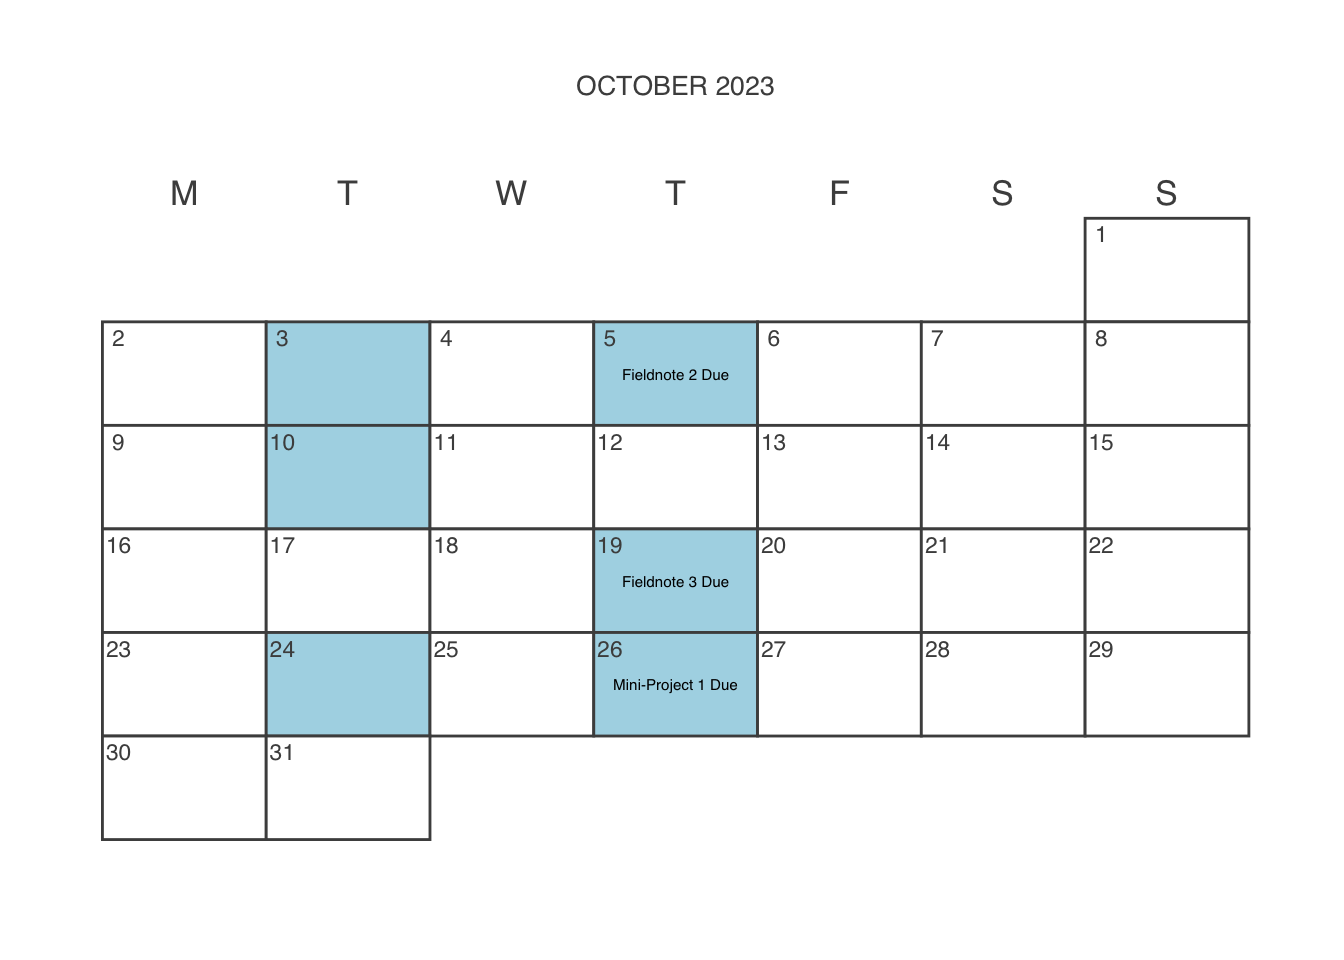
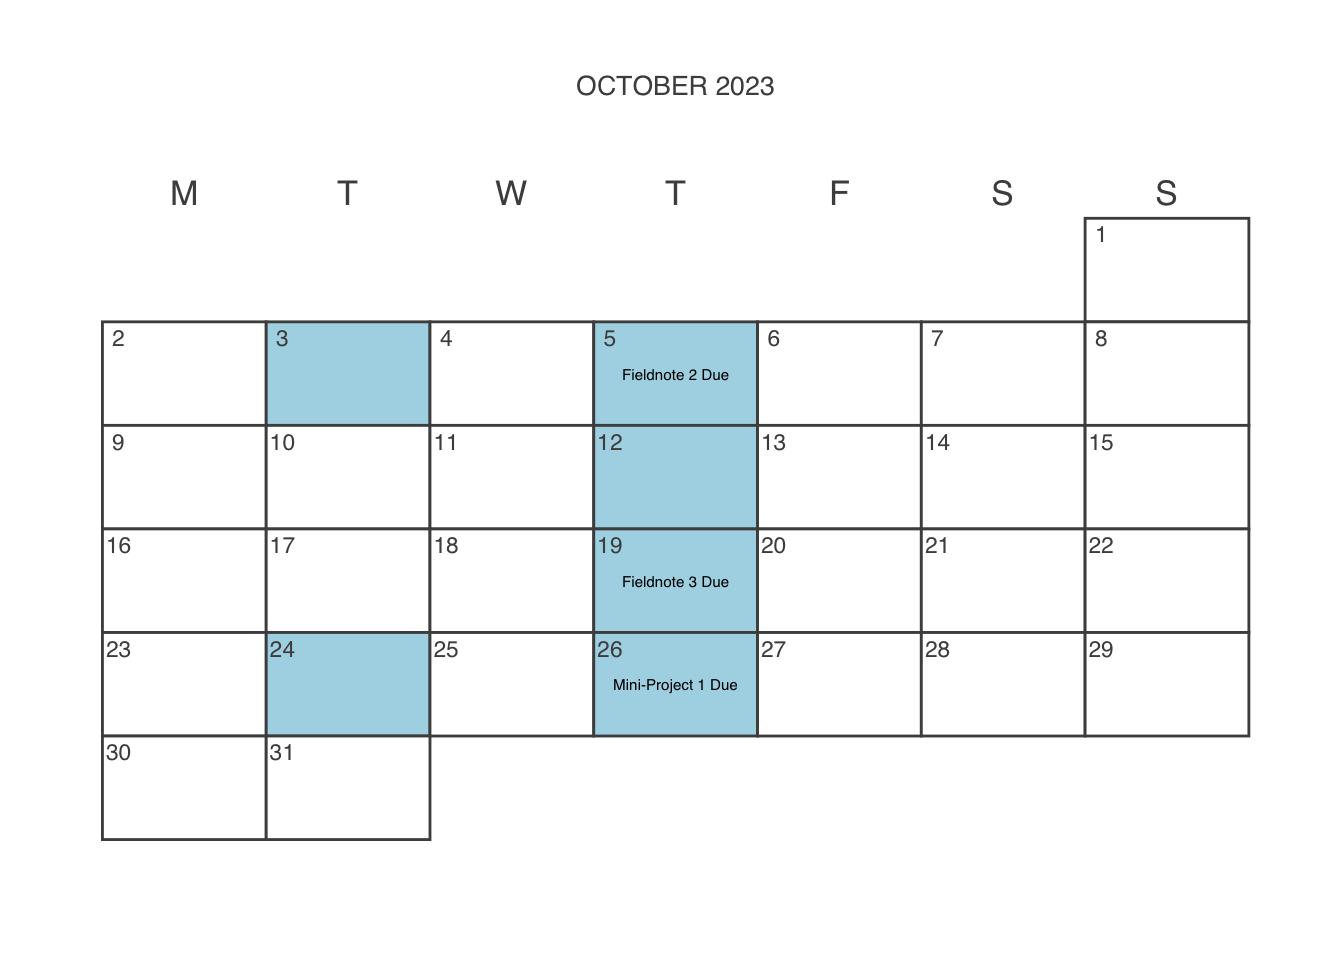
added labor log; fixed times/office hour locations

Changed region(s): [[0.1875, 0.4375, 0.3438, 0.5625], [0.4375, 0.4375, 0.5625, 0.5625]]

diff --git a/docs/schedule.html b/docs/schedule.html
@@ -151,11 +151,11 @@ ul.task-list li input[type="checkbox"] {
   </ul></li>
   <li><a href="#october-10-2023" id="toc-october-10-2023" class="nav-link" data-scroll-target="#october-10-2023">October 10, 2023</a>
   <ul class="collapse">
-  <li><a href="#sorting-things-out-cultural-analyses-of-categories" id="toc-sorting-things-out-cultural-analyses-of-categories" class="nav-link" data-scroll-target="#sorting-things-out-cultural-analyses-of-categories">Sorting Things Out: Cultural Analyses of Categories</a></li>
+  <li><a href="#autumn-recess" id="toc-autumn-recess" class="nav-link" data-scroll-target="#autumn-recess">Autumn Recess</a></li>
   </ul></li>
   <li><a href="#october-12-2023" id="toc-october-12-2023" class="nav-link" data-scroll-target="#october-12-2023">October 12, 2023</a>
   <ul class="collapse">
-  <li><a href="#autumn-recess" id="toc-autumn-recess" class="nav-link" data-scroll-target="#autumn-recess">Autumn Recess</a></li>
+  <li><a href="#sorting-things-out-cultural-analyses-of-categories" id="toc-sorting-things-out-cultural-analyses-of-categories" class="nav-link" data-scroll-target="#sorting-things-out-cultural-analyses-of-categories">Sorting Things Out: Cultural Analyses of Categories</a></li>
   </ul></li>
   <li><a href="#october-17-2023" id="toc-october-17-2023" class="nav-link" data-scroll-target="#october-17-2023">October 17, 2023</a>
   <ul class="collapse">
@@ -338,7 +338,8 @@ Calendar View for Major Assignments
 <div id="tabset-2-1" class="tab-pane active" role="tabpanel" aria-labelledby="tabset-2-1-tab">
 <p><svg aria-hidden="true" role="img" viewbox="0 0 448 512" style="height:1em;width:0.88em;vertical-align:-0.125em;margin-left:auto;margin-right:auto;font-size:inherit;fill:currentColor;overflow:visible;position:relative;"><path d="M96 0C43 0 0 43 0 96V416c0 53 43 96 96 96H384h32c17.7 0 32-14.3 32-32s-14.3-32-32-32V384c17.7 0 32-14.3 32-32V32c0-17.7-14.3-32-32-32H384 96zm0 384H352v64H96c-17.7 0-32-14.3-32-32s14.3-32 32-32zm32-240c0-8.8 7.2-16 16-16H336c8.8 0 16 7.2 16 16s-7.2 16-16 16H144c-8.8 0-16-7.2-16-16zm16 48H336c8.8 0 16 7.2 16 16s-7.2 16-16 16H144c-8.8 0-16-7.2-16-16s7.2-16 16-16z"></path></svg> boyd, danah and Kate Crawford (2012). “Critical Questions for Big Data”. In: <em>Information, Communication &amp; Society</em> 15.5, pp.&nbsp;662-679. (Visited on Jan.&nbsp;19, 2018).</p>
 <p><svg aria-hidden="true" role="img" viewbox="0 0 384 512" style="height:1em;width:0.75em;vertical-align:-0.125em;margin-left:auto;margin-right:auto;font-size:inherit;fill:currentColor;overflow:visible;position:relative;"><path d="M64 464c-8.8 0-16-7.2-16-16V64c0-8.8 7.2-16 16-16H224v80c0 17.7 14.3 32 32 32h80V448c0 8.8-7.2 16-16 16H64zM64 0C28.7 0 0 28.7 0 64V448c0 35.3 28.7 64 64 64H320c35.3 0 64-28.7 64-64V154.5c0-17-6.7-33.3-18.7-45.3L274.7 18.7C262.7 6.7 246.5 0 229.5 0H64zm56 256c-13.3 0-24 10.7-24 24s10.7 24 24 24H264c13.3 0 24-10.7 24-24s-10.7-24-24-24H120zm0 96c-13.3 0-24 10.7-24 24s10.7 24 24 24H264c13.3 0 24-10.7 24-24s-10.7-24-24-24H120z"></path></svg> Fill out the Trigger Warnings <a href="https://moodle.smith.edu/mod/questionnaire/view.php?id=1060016">Questionnaire</a> in Moodle.<br>
-<svg aria-hidden="true" role="img" viewbox="0 0 384 512" style="height:1em;width:0.75em;vertical-align:-0.125em;margin-left:auto;margin-right:auto;font-size:inherit;fill:currentColor;overflow:visible;position:relative;"><path d="M64 464c-8.8 0-16-7.2-16-16V64c0-8.8 7.2-16 16-16H224v80c0 17.7 14.3 32 32 32h80V448c0 8.8-7.2 16-16 16H64zM64 0C28.7 0 0 28.7 0 64V448c0 35.3 28.7 64 64 64H320c35.3 0 64-28.7 64-64V154.5c0-17-6.7-33.3-18.7-45.3L274.7 18.7C262.7 6.7 246.5 0 229.5 0H64zm56 256c-13.3 0-24 10.7-24 24s10.7 24 24 24H264c13.3 0 24-10.7 24-24s-10.7-24-24-24H120zm0 96c-13.3 0-24 10.7-24 24s10.7 24 24 24H264c13.3 0 24-10.7 24-24s-10.7-24-24-24H120z"></path></svg> Install Desktop version of Slack and configure notifications for our course.</p>
+<svg aria-hidden="true" role="img" viewbox="0 0 384 512" style="height:1em;width:0.75em;vertical-align:-0.125em;margin-left:auto;margin-right:auto;font-size:inherit;fill:currentColor;overflow:visible;position:relative;"><path d="M64 464c-8.8 0-16-7.2-16-16V64c0-8.8 7.2-16 16-16H224v80c0 17.7 14.3 32 32 32h80V448c0 8.8-7.2 16-16 16H64zM64 0C28.7 0 0 28.7 0 64V448c0 35.3 28.7 64 64 64H320c35.3 0 64-28.7 64-64V154.5c0-17-6.7-33.3-18.7-45.3L274.7 18.7C262.7 6.7 246.5 0 229.5 0H64zm56 256c-13.3 0-24 10.7-24 24s10.7 24 24 24H264c13.3 0 24-10.7 24-24s-10.7-24-24-24H120zm0 96c-13.3 0-24 10.7-24 24s10.7 24 24 24H264c13.3 0 24-10.7 24-24s-10.7-24-24-24H120z"></path></svg> Install Desktop version of Slack and configure notifications for our course.<br>
+<svg aria-hidden="true" role="img" viewbox="0 0 384 512" style="height:1em;width:0.75em;vertical-align:-0.125em;margin-left:auto;margin-right:auto;font-size:inherit;fill:currentColor;overflow:visible;position:relative;"><path d="M64 464c-8.8 0-16-7.2-16-16V64c0-8.8 7.2-16 16-16H224v80c0 17.7 14.3 32 32 32h80V448c0 8.8-7.2 16-16 16H64zM64 0C28.7 0 0 28.7 0 64V448c0 35.3 28.7 64 64 64H320c35.3 0 64-28.7 64-64V154.5c0-17-6.7-33.3-18.7-45.3L274.7 18.7C262.7 6.7 246.5 0 229.5 0H64zm56 256c-13.3 0-24 10.7-24 24s10.7 24 24 24H264c13.3 0 24-10.7 24-24s-10.7-24-24-24H120zm0 96c-13.3 0-24 10.7-24 24s10.7 24 24 24H264c13.3 0 24-10.7 24-24s-10.7-24-24-24H120z"></path></svg> Create and share <a href="https://docs.google.com/spreadsheets/d/187FGeX9ByXa4-1hnqFFY5H-j4Aq8bAwbLjnVyJnGGyc/copy">Labor Log</a></p>
 </div>
 <div id="tabset-2-2" class="tab-pane" role="tabpanel" aria-labelledby="tabset-2-2-tab">
 <p><svg aria-hidden="true" role="img" viewbox="0 0 576 512" style="height:1em;width:1.12em;vertical-align:-0.125em;margin-left:auto;margin-right:auto;font-size:inherit;fill:currentColor;overflow:visible;position:relative;"><path d="M160 80H512c8.8 0 16 7.2 16 16V320c0 8.8-7.2 16-16 16H490.8L388.1 178.9c-4.4-6.8-12-10.9-20.1-10.9s-15.7 4.1-20.1 10.9l-52.2 79.8-12.4-16.9c-4.5-6.2-11.7-9.8-19.4-9.8s-14.8 3.6-19.4 9.8L175.6 336H160c-8.8 0-16-7.2-16-16V96c0-8.8 7.2-16 16-16zM96 96V320c0 35.3 28.7 64 64 64H512c35.3 0 64-28.7 64-64V96c0-35.3-28.7-64-64-64H160c-35.3 0-64 28.7-64 64zM48 120c0-13.3-10.7-24-24-24S0 106.7 0 120V344c0 75.1 60.9 136 136 136H456c13.3 0 24-10.7 24-24s-10.7-24-24-24H136c-48.6 0-88-39.4-88-88V120zm208 24a32 32 0 1 0 -64 0 32 32 0 1 0 64 0z"></path></svg> Course slides are <a href="slides/Day2-Epstemologies.html">here</a></p>
@@ -523,22 +524,19 @@ Calendar View for Major Assignments
 </section>
 <section id="october-10-2023" class="level2">
 <h2 class="anchored" data-anchor-id="october-10-2023">October 10, 2023</h2>
-<section id="sorting-things-out-cultural-analyses-of-categories" class="level3">
-<h3 class="anchored" data-anchor-id="sorting-things-out-cultural-analyses-of-categories">Sorting Things Out: Cultural Analyses of Categories</h3>
+<section id="autumn-recess" class="level3">
+<h3 class="anchored" data-anchor-id="autumn-recess">Autumn Recess</h3>
 <p><button class="btn btn-success btn-sm">CULTURAL ANALYSIS OF INFRASTRUCTURE</button> <button class="btn btn-primary btn-sm">INTERPRETING CULTURAL MEANING</button> <button class="btn btn-warning btn-sm">INFRASTRUCTURES</button></p>
 <div class="panel-tabset">
 <ul class="nav nav-tabs" role="tablist"><li class="nav-item" role="presentation"><a class="nav-link active" id="tabset-11-1-tab" data-bs-toggle="tab" data-bs-target="#tabset-11-1" role="tab" aria-controls="tabset-11-1" aria-selected="true">Due Today</a></li><li class="nav-item" role="presentation"><a class="nav-link" id="tabset-11-2-tab" data-bs-toggle="tab" data-bs-target="#tabset-11-2" role="tab" aria-controls="tabset-11-2" aria-selected="false">Further Resources</a></li></ul>
 <div class="tab-content">
 <div id="tabset-11-1" class="tab-pane active" role="tabpanel" aria-labelledby="tabset-11-1-tab">
-<p><svg aria-hidden="true" role="img" viewbox="0 0 448 512" style="height:1em;width:0.88em;vertical-align:-0.125em;margin-left:auto;margin-right:auto;font-size:inherit;fill:currentColor;overflow:visible;position:relative;"><path d="M96 0C43 0 0 43 0 96V416c0 53 43 96 96 96H384h32c17.7 0 32-14.3 32-32s-14.3-32-32-32V384c17.7 0 32-14.3 32-32V32c0-17.7-14.3-32-32-32H384 96zm0 384H352v64H96c-17.7 0-32-14.3-32-32s14.3-32 32-32zm32-240c0-8.8 7.2-16 16-16H336c8.8 0 16 7.2 16 16s-7.2 16-16 16H144c-8.8 0-16-7.2-16-16zm16 48H336c8.8 0 16 7.2 16 16s-7.2 16-16 16H144c-8.8 0-16-7.2-16-16s7.2-16 16-16z"></path></svg> Bowker, Geoffrey C. (1998). “The Kindness of Strangers: Kinds and Politics in Classification Systems”. En. In: <em>Library Trends</em> 47.2, pp.&nbsp;255-292. (Visited on Oct.&nbsp;14, 2019).</p>
 <p><svg aria-hidden="true" role="img" viewbox="0 0 640 512" style="height:1em;width:1.25em;vertical-align:-0.125em;margin-left:auto;margin-right:auto;font-size:inherit;fill:currentColor;overflow:visible;position:relative;"><path d="M96 128a128 128 0 1 1 256 0A128 128 0 1 1 96 128zM0 482.3C0 383.8 79.8 304 178.3 304h91.4C368.2 304 448 383.8 448 482.3c0 16.4-13.3 29.7-29.7 29.7H29.7C13.3 512 0 498.7 0 482.3zM609.3 512H471.4c5.4-9.4 8.6-20.3 8.6-32v-8c0-60.7-27.1-115.2-69.8-151.8c2.4-.1 4.7-.2 7.1-.2h61.4C567.8 320 640 392.2 640 481.3c0 17-13.8 30.7-30.7 30.7zM432 256c-31 0-59-12.6-79.3-32.9C372.4 196.5 384 163.6 384 128c0-26.8-6.6-52.1-18.3-74.3C384.3 40.1 407.2 32 432 32c61.9 0 112 50.1 112 112s-50.1 112-112 112z"></path></svg> Work on semiotic analysis</p>
 <p><svg aria-hidden="true" role="img" viewbox="0 0 384 512" style="height:1em;width:0.75em;vertical-align:-0.125em;margin-left:auto;margin-right:auto;font-size:inherit;fill:currentColor;overflow:visible;position:relative;"><path d="M64 464c-8.8 0-16-7.2-16-16V64c0-8.8 7.2-16 16-16H224v80c0 17.7 14.3 32 32 32h80V448c0 8.8-7.2 16-16 16H64zM64 0C28.7 0 0 28.7 0 64V448c0 35.3 28.7 64 64 64H320c35.3 0 64-28.7 64-64V154.5c0-17-6.7-33.3-18.7-45.3L274.7 18.7C262.7 6.7 246.5 0 229.5 0H64zm56 256c-13.3 0-24 10.7-24 24s10.7 24 24 24H264c13.3 0 24-10.7 24-24s-10.7-24-24-24H120zm0 96c-13.3 0-24 10.7-24 24s10.7 24 24 24H264c13.3 0 24-10.7 24-24s-10.7-24-24-24H120z"></path></svg> Start working on Mini-Project 1<br>
 <svg aria-hidden="true" role="img" viewbox="0 0 384 512" style="height:1em;width:0.75em;vertical-align:-0.125em;margin-left:auto;margin-right:auto;font-size:inherit;fill:currentColor;overflow:visible;position:relative;"><path d="M64 464c-8.8 0-16-7.2-16-16V64c0-8.8 7.2-16 16-16H224v80c0 17.7 14.3 32 32 32h80V448c0 8.8-7.2 16-16 16H64zM64 0C28.7 0 0 28.7 0 64V448c0 35.3 28.7 64 64 64H320c35.3 0 64-28.7 64-64V154.5c0-17-6.7-33.3-18.7-45.3L274.7 18.7C262.7 6.7 246.5 0 229.5 0H64zm56 256c-13.3 0-24 10.7-24 24s10.7 24 24 24H264c13.3 0 24-10.7 24-24s-10.7-24-24-24H120zm0 96c-13.3 0-24 10.7-24 24s10.7 24 24 24H264c13.3 0 24-10.7 24-24s-10.7-24-24-24H120z"></path></svg> Be sure to get approval for the TED Talks you plan to view for Mini-Project 1.</p>
 </div>
 <div id="tabset-11-2" class="tab-pane" role="tabpanel" aria-labelledby="tabset-11-2-tab">
-<p><svg aria-hidden="true" role="img" viewbox="0 0 448 512" style="height:1em;width:0.88em;vertical-align:-0.125em;margin-left:auto;margin-right:auto;font-size:inherit;fill:currentColor;overflow:visible;position:relative;"><path d="M96 0C43 0 0 43 0 96V416c0 53 43 96 96 96H384h32c17.7 0 32-14.3 32-32s-14.3-32-32-32V384c17.7 0 32-14.3 32-32V32c0-17.7-14.3-32-32-32H384 96zm0 384H352v64H96c-17.7 0-32-14.3-32-32s14.3-32 32-32zm32-240c0-8.8 7.2-16 16-16H336c8.8 0 16 7.2 16 16s-7.2 16-16 16H144c-8.8 0-16-7.2-16-16zm16 48H336c8.8 0 16 7.2 16 16s-7.2 16-16 16H144c-8.8 0-16-7.2-16-16s7.2-16 16-16z"></path></svg> Bowker, Geoffrey C. and Susan Leigh Star (1999). <em>Sorting Things Out: Classification and Its Consequences</em>. En. Cambridge, MA: MIT Press. ISBN: 978-0-262-52295-3.<br>
-<svg aria-hidden="true" role="img" viewbox="0 0 448 512" style="height:1em;width:0.88em;vertical-align:-0.125em;margin-left:auto;margin-right:auto;font-size:inherit;fill:currentColor;overflow:visible;position:relative;"><path d="M96 0C43 0 0 43 0 96V416c0 53 43 96 96 96H384h32c17.7 0 32-14.3 32-32s-14.3-32-32-32V384c17.7 0 32-14.3 32-32V32c0-17.7-14.3-32-32-32H384 96zm0 384H352v64H96c-17.7 0-32-14.3-32-32s14.3-32 32-32zm32-240c0-8.8 7.2-16 16-16H336c8.8 0 16 7.2 16 16s-7.2 16-16 16H144c-8.8 0-16-7.2-16-16zm16 48H336c8.8 0 16 7.2 16 16s-7.2 16-16 16H144c-8.8 0-16-7.2-16-16s7.2-16 16-16z"></path></svg> Waterton, Claire (2002). “From Field to Fantasy: Classifying Nature, Constructing Europe”. En. In: <em>Social Studies of Science</em> 32.2, pp.&nbsp;177-204. (Visited on May. 15, 2019).<br>
-<svg aria-hidden="true" role="img" viewbox="0 0 448 512" style="height:1em;width:0.88em;vertical-align:-0.125em;margin-left:auto;margin-right:auto;font-size:inherit;fill:currentColor;overflow:visible;position:relative;"><path d="M96 0C43 0 0 43 0 96V416c0 53 43 96 96 96H384h32c17.7 0 32-14.3 32-32s-14.3-32-32-32V384c17.7 0 32-14.3 32-32V32c0-17.7-14.3-32-32-32H384 96zm0 384H352v64H96c-17.7 0-32-14.3-32-32s14.3-32 32-32zm32-240c0-8.8 7.2-16 16-16H336c8.8 0 16 7.2 16 16s-7.2 16-16 16H144c-8.8 0-16-7.2-16-16zm16 48H336c8.8 0 16 7.2 16 16s-7.2 16-16 16H144c-8.8 0-16-7.2-16-16s7.2-16 16-16z"></path></svg> Kirksey, Eben (2015). “Species: a praxiographic study”. Fr.&nbsp;In: <em>Journal of the Royal Anthropological Institute</em> 21.4, pp.&nbsp;758-780. (Visited on Oct.&nbsp;05, 2019).</p>
+
 </div>
 </div>
 </div>
@@ -546,18 +544,21 @@ Calendar View for Major Assignments
 </section>
 <section id="october-12-2023" class="level2">
 <h2 class="anchored" data-anchor-id="october-12-2023">October 12, 2023</h2>
-<section id="autumn-recess" class="level3">
-<h3 class="anchored" data-anchor-id="autumn-recess">Autumn Recess</h3>
+<section id="sorting-things-out-cultural-analyses-of-categories" class="level3">
+<h3 class="anchored" data-anchor-id="sorting-things-out-cultural-analyses-of-categories">Sorting Things Out: Cultural Analyses of Categories</h3>
 <div class="panel-tabset">
 <ul class="nav nav-tabs" role="tablist"><li class="nav-item" role="presentation"><a class="nav-link active" id="tabset-12-1-tab" data-bs-toggle="tab" data-bs-target="#tabset-12-1" role="tab" aria-controls="tabset-12-1" aria-selected="true">Due Today</a></li><li class="nav-item" role="presentation"><a class="nav-link" id="tabset-12-2-tab" data-bs-toggle="tab" data-bs-target="#tabset-12-2" role="tab" aria-controls="tabset-12-2" aria-selected="false">Further Resources</a></li></ul>
 <div class="tab-content">
 <div id="tabset-12-1" class="tab-pane active" role="tabpanel" aria-labelledby="tabset-12-1-tab">
+<p><svg aria-hidden="true" role="img" viewbox="0 0 448 512" style="height:1em;width:0.88em;vertical-align:-0.125em;margin-left:auto;margin-right:auto;font-size:inherit;fill:currentColor;overflow:visible;position:relative;"><path d="M96 0C43 0 0 43 0 96V416c0 53 43 96 96 96H384h32c17.7 0 32-14.3 32-32s-14.3-32-32-32V384c17.7 0 32-14.3 32-32V32c0-17.7-14.3-32-32-32H384 96zm0 384H352v64H96c-17.7 0-32-14.3-32-32s14.3-32 32-32zm32-240c0-8.8 7.2-16 16-16H336c8.8 0 16 7.2 16 16s-7.2 16-16 16H144c-8.8 0-16-7.2-16-16zm16 48H336c8.8 0 16 7.2 16 16s-7.2 16-16 16H144c-8.8 0-16-7.2-16-16s7.2-16 16-16z"></path></svg> Bowker, Geoffrey C. (1998). “The Kindness of Strangers: Kinds and Politics in Classification Systems”. En. In: <em>Library Trends</em> 47.2, pp.&nbsp;255-292. (Visited on Oct.&nbsp;14, 2019).</p>
 <p><svg aria-hidden="true" role="img" viewbox="0 0 640 512" style="height:1em;width:1.25em;vertical-align:-0.125em;margin-left:auto;margin-right:auto;font-size:inherit;fill:currentColor;overflow:visible;position:relative;"><path d="M96 128a128 128 0 1 1 256 0A128 128 0 1 1 96 128zM0 482.3C0 383.8 79.8 304 178.3 304h91.4C368.2 304 448 383.8 448 482.3c0 16.4-13.3 29.7-29.7 29.7H29.7C13.3 512 0 498.7 0 482.3zM609.3 512H471.4c5.4-9.4 8.6-20.3 8.6-32v-8c0-60.7-27.1-115.2-69.8-151.8c2.4-.1 4.7-.2 7.1-.2h61.4C567.8 320 640 392.2 640 481.3c0 17-13.8 30.7-30.7 30.7zM432 256c-31 0-59-12.6-79.3-32.9C372.4 196.5 384 163.6 384 128c0-26.8-6.6-52.1-18.3-74.3C384.3 40.1 407.2 32 432 32c61.9 0 112 50.1 112 112s-50.1 112-112 112z"></path></svg> Work on semiotic analysis</p>
 <p><svg aria-hidden="true" role="img" viewbox="0 0 384 512" style="height:1em;width:0.75em;vertical-align:-0.125em;margin-left:auto;margin-right:auto;font-size:inherit;fill:currentColor;overflow:visible;position:relative;"><path d="M64 464c-8.8 0-16-7.2-16-16V64c0-8.8 7.2-16 16-16H224v80c0 17.7 14.3 32 32 32h80V448c0 8.8-7.2 16-16 16H64zM64 0C28.7 0 0 28.7 0 64V448c0 35.3 28.7 64 64 64H320c35.3 0 64-28.7 64-64V154.5c0-17-6.7-33.3-18.7-45.3L274.7 18.7C262.7 6.7 246.5 0 229.5 0H64zm56 256c-13.3 0-24 10.7-24 24s10.7 24 24 24H264c13.3 0 24-10.7 24-24s-10.7-24-24-24H120zm0 96c-13.3 0-24 10.7-24 24s10.7 24 24 24H264c13.3 0 24-10.7 24-24s-10.7-24-24-24H120z"></path></svg> Start working on Fieldnote 3<br>
 <svg aria-hidden="true" role="img" viewbox="0 0 384 512" style="height:1em;width:0.75em;vertical-align:-0.125em;margin-left:auto;margin-right:auto;font-size:inherit;fill:currentColor;overflow:visible;position:relative;"><path d="M64 464c-8.8 0-16-7.2-16-16V64c0-8.8 7.2-16 16-16H224v80c0 17.7 14.3 32 32 32h80V448c0 8.8-7.2 16-16 16H64zM64 0C28.7 0 0 28.7 0 64V448c0 35.3 28.7 64 64 64H320c35.3 0 64-28.7 64-64V154.5c0-17-6.7-33.3-18.7-45.3L274.7 18.7C262.7 6.7 246.5 0 229.5 0H64zm56 256c-13.3 0-24 10.7-24 24s10.7 24 24 24H264c13.3 0 24-10.7 24-24s-10.7-24-24-24H120zm0 96c-13.3 0-24 10.7-24 24s10.7 24 24 24H264c13.3 0 24-10.7 24-24s-10.7-24-24-24H120z"></path></svg> Continue working on Mini-Project 1</p>
 </div>
 <div id="tabset-12-2" class="tab-pane" role="tabpanel" aria-labelledby="tabset-12-2-tab">
-
+<p><svg aria-hidden="true" role="img" viewbox="0 0 448 512" style="height:1em;width:0.88em;vertical-align:-0.125em;margin-left:auto;margin-right:auto;font-size:inherit;fill:currentColor;overflow:visible;position:relative;"><path d="M96 0C43 0 0 43 0 96V416c0 53 43 96 96 96H384h32c17.7 0 32-14.3 32-32s-14.3-32-32-32V384c17.7 0 32-14.3 32-32V32c0-17.7-14.3-32-32-32H384 96zm0 384H352v64H96c-17.7 0-32-14.3-32-32s14.3-32 32-32zm32-240c0-8.8 7.2-16 16-16H336c8.8 0 16 7.2 16 16s-7.2 16-16 16H144c-8.8 0-16-7.2-16-16zm16 48H336c8.8 0 16 7.2 16 16s-7.2 16-16 16H144c-8.8 0-16-7.2-16-16s7.2-16 16-16z"></path></svg> Bowker, Geoffrey C. and Susan Leigh Star (1999). <em>Sorting Things Out: Classification and Its Consequences</em>. En. Cambridge, MA: MIT Press. ISBN: 978-0-262-52295-3.<br>
+<svg aria-hidden="true" role="img" viewbox="0 0 448 512" style="height:1em;width:0.88em;vertical-align:-0.125em;margin-left:auto;margin-right:auto;font-size:inherit;fill:currentColor;overflow:visible;position:relative;"><path d="M96 0C43 0 0 43 0 96V416c0 53 43 96 96 96H384h32c17.7 0 32-14.3 32-32s-14.3-32-32-32V384c17.7 0 32-14.3 32-32V32c0-17.7-14.3-32-32-32H384 96zm0 384H352v64H96c-17.7 0-32-14.3-32-32s14.3-32 32-32zm32-240c0-8.8 7.2-16 16-16H336c8.8 0 16 7.2 16 16s-7.2 16-16 16H144c-8.8 0-16-7.2-16-16zm16 48H336c8.8 0 16 7.2 16 16s-7.2 16-16 16H144c-8.8 0-16-7.2-16-16s7.2-16 16-16z"></path></svg> Waterton, Claire (2002). “From Field to Fantasy: Classifying Nature, Constructing Europe”. En. In: <em>Social Studies of Science</em> 32.2, pp.&nbsp;177-204. (Visited on May. 15, 2019).<br>
+<svg aria-hidden="true" role="img" viewbox="0 0 448 512" style="height:1em;width:0.88em;vertical-align:-0.125em;margin-left:auto;margin-right:auto;font-size:inherit;fill:currentColor;overflow:visible;position:relative;"><path d="M96 0C43 0 0 43 0 96V416c0 53 43 96 96 96H384h32c17.7 0 32-14.3 32-32s-14.3-32-32-32V384c17.7 0 32-14.3 32-32V32c0-17.7-14.3-32-32-32H384 96zm0 384H352v64H96c-17.7 0-32-14.3-32-32s14.3-32 32-32zm32-240c0-8.8 7.2-16 16-16H336c8.8 0 16 7.2 16 16s-7.2 16-16 16H144c-8.8 0-16-7.2-16-16zm16 48H336c8.8 0 16 7.2 16 16s-7.2 16-16 16H144c-8.8 0-16-7.2-16-16s7.2-16 16-16z"></path></svg> Kirksey, Eben (2015). “Species: a praxiographic study”. Fr.&nbsp;In: <em>Journal of the Royal Anthropological Institute</em> 21.4, pp.&nbsp;758-780. (Visited on Oct.&nbsp;05, 2019).</p>
 </div>
 </div>
 </div>

diff --git a/docs/index.html b/docs/index.html
@@ -7,7 +7,7 @@
 <meta name="viewport" content="width=device-width, initial-scale=1.0, user-scalable=yes">
 
 <meta name="author" content="Lindsay Poirier">
-<meta name="dcterms.date" content="2023-08-07">
+<meta name="dcterms.date" content="2023-08-25">
 
 <title>SDS 237: Data Ethnography</title>
 <style>
@@ -149,7 +149,7 @@ ul.task-list li input[type="checkbox"] {
     <div>
     <div class="quarto-title-meta-heading">Published</div>
     <div class="quarto-title-meta-contents">
-      <p class="date">August 7, 2023</p>
+      <p class="date">August 25, 2023</p>
     </div>
   </div>
     
@@ -179,7 +179,7 @@ ul.task-list li input[type="checkbox"] {
 <li>Strategically apply relevant ethnographic methods to the study of a data setting or artifact</li>
 <li>Produce data documentation and visualizations that account for the cultural contexts of data production, categorization, measurement, and use</li>
 </ol>
-<p>Classes will be held on Tuesdays and Thursdays from 9:25 PM to 10:40 PM.</p>
+<p>Classes will be held on Tuesdays and Thursdays from 9:25 AM to 10:40 AM.</p>
 <section id="course-instructor" class="level2">
 <h2 class="anchored" data-anchor-id="course-instructor">Course Instructor</h2>
 <div class="float_image_right">
@@ -208,9 +208,8 @@ ul.task-list li input[type="checkbox"] {
 <p>Meeting with me outside of class is a great opportunity for us to chat about what you’re learning in the course, clarify expectations on assignments, and review work in progress. I also love when students drop in to office hours to request book recommendations, discuss career or research paths, or just to say hi!</p>
 <p>There are two ways to meet with me. If you would like to have a one-on-one private conversation, I ask that you schedule an appointment with me via the <a href="https://moodle.smith.edu/mod/url/view.php?id=1060025">booking form on Moodle</a>. For support on class topics, you may drop-in during my regularly scheduled office hours.</p>
 <ul>
-<li>Monday, 11-12, Sabin-Reed 331</li>
-<li>Tuesday, 11-12, Sabin-Reed 331</li>
-<li>Thursday, 11-12, Sabin-Reed 331</li>
+<li>Monday, 11-12, McConnell 214</li>
+<li>Tuesday, 11-12, McConnell 214</li>
 </ul>
 </div>
 </div>

diff --git a/docs/grading_contract.html b/docs/grading_contract.html
@@ -258,7 +258,7 @@ Note
 </section>
 <section id="how-can-i-best-keep-track-of-my-labor-in-this-course" class="level3">
 <h3 class="anchored" data-anchor-id="how-can-i-best-keep-track-of-my-labor-in-this-course">How can I best keep track of my labor in this course?</h3>
-<p>Throughout the semester, you will be asked to keep track of your labor via a log that will be available in your GitHub portfolio. I will reference this log to calculate certain aspects of your final grade. Instructions for using the labor log will be provided in the second week of the course.</p>
+<p>Throughout the semester, you will be asked to keep track of your labor via a log that you will share with me. I will reference this log to calculate certain aspects of your final grade. Instructions for using the labor log will be provided in the second week of the course.</p>
 </section>
 <section id="can-i-earn---grades-in-this-course" class="level3">
 <h3 class="anchored" data-anchor-id="can-i-earn---grades-in-this-course">Can I earn +/- grades in this course?</h3>
